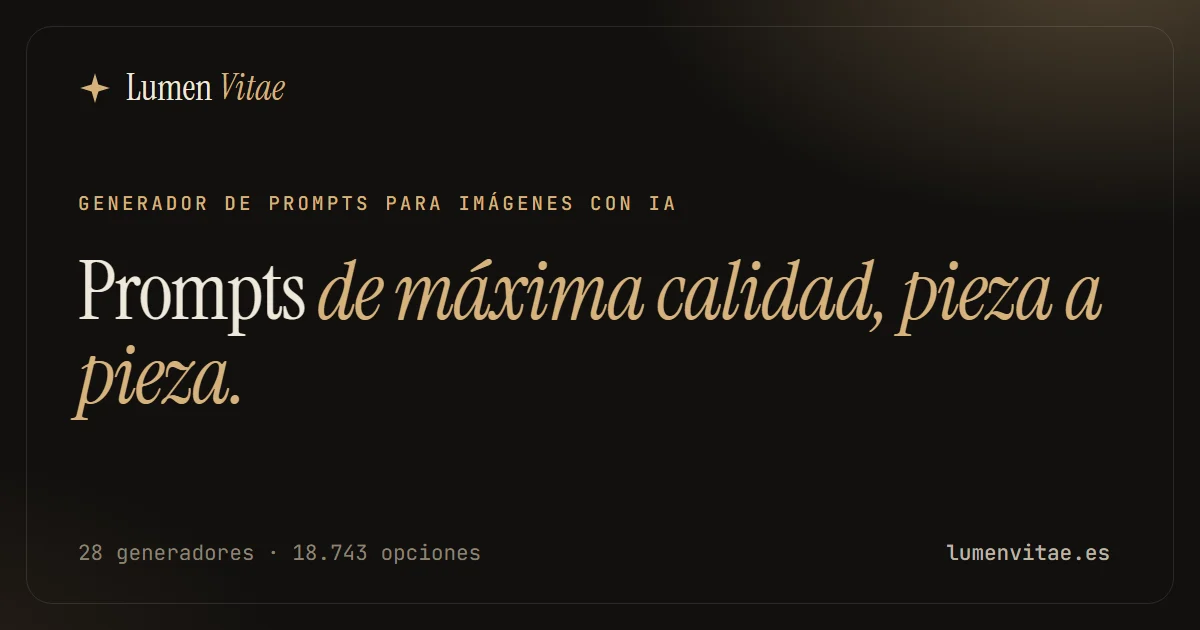
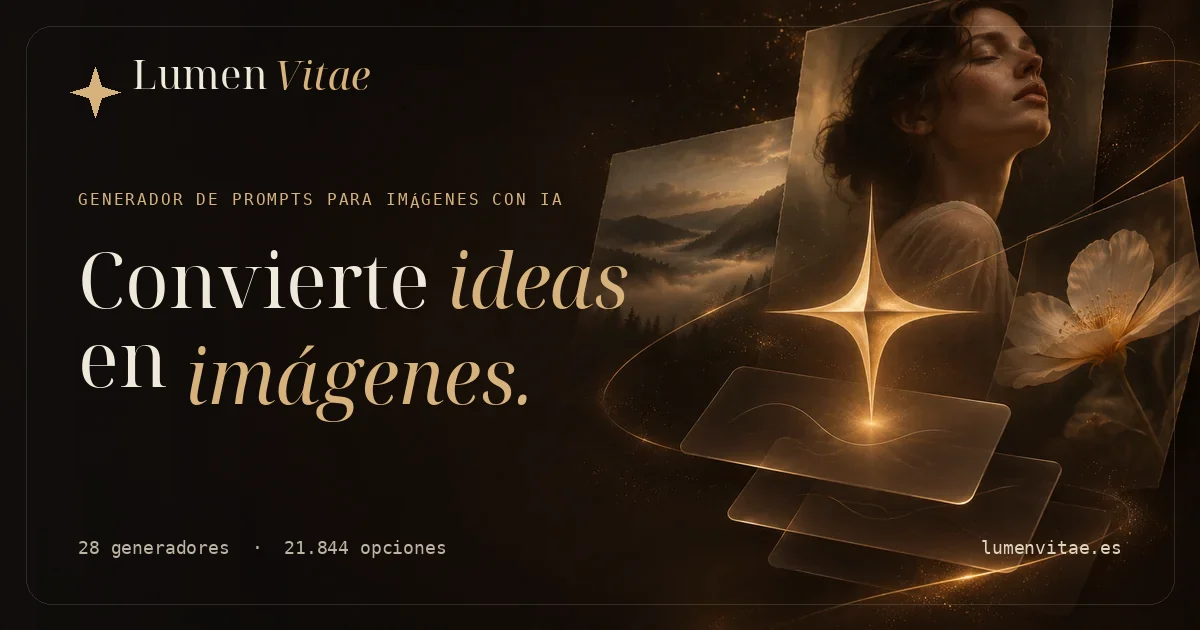
Añade nueva imagen Open Graph y bloquea zoom móvil

diff --git a/index.html b/index.html
@@ -2,7 +2,7 @@
 <html lang="es">
 <head>
 <meta charset="utf-8">
-<meta name="viewport" content="width=device-width, initial-scale=1">
+<meta name="viewport" content="width=device-width, initial-scale=1, maximum-scale=1, user-scalable=no">
 <title>Lumen Vitae · Generador de prompts para imágenes con IA</title>
 <meta name="description" content="Construye prompts de máxima calidad para imágenes con IA: 28 generadores, más de 21.000 opciones y un constructor que cruza personajes, escenarios, clima y fotografía. Interfaz en español, prompts en inglés.">
 <meta name="application-name" content="Lumen Vitae">
@@ -19,12 +19,13 @@
 <meta property="og:title" content="Lumen Vitae · Generador de prompts para imágenes con IA">
 <meta property="og:description" content="Construye prompts de máxima calidad para imágenes con IA: 28 generadores, más de 21.000 opciones y un constructor que cruza personajes, escenarios, clima y fotografía. Interfaz en español, prompts en inglés.">
 <meta property="og:url" content="https://lumenvitae.es/">
-<meta property="og:image" content="https://lumenvitae.es/assets/img/og/home.webp">
+<meta property="og:image" content="https://lumenvitae.es/assets/img/og/home.jpg">
+<meta property="og:image:type" content="image/jpeg">
 <meta property="og:image:width" content="1200">
 <meta property="og:image:height" content="630">
 <meta property="og:image:alt" content="Lumen Vitae · Generador de prompts para imágenes con IA">
 <meta name="twitter:card" content="summary_large_image">
-<meta name="twitter:image" content="https://lumenvitae.es/assets/img/og/home.webp">
+<meta name="twitter:image" content="https://lumenvitae.es/assets/img/og/home.jpg">
 <link rel="icon" href="/favicon.ico" sizes="any">
 <link rel="icon" type="image/svg+xml" href="/assets/img/icon.svg">
 <link rel="icon" type="image/png" sizes="32x32" href="/assets/img/icon-32.png">

diff --git a/guias/prompts-para-chatgpt-stable-diffusion-flux-ideogram-midjourney/index.html b/guias/prompts-para-chatgpt-stable-diffusion-flux-ideogram-midjourney/index.html
@@ -2,7 +2,7 @@
 <html lang="es">
 <head>
 <meta charset="utf-8">
-<meta name="viewport" content="width=device-width, initial-scale=1">
+<meta name="viewport" content="width=device-width, initial-scale=1, maximum-scale=1, user-scalable=no">
 <title>Prompts para ChatGPT, Stable Diffusion, Flux, Ideogram y Midjourney: qué cambia | Lumen Vitae</title>
 <meta name="description" content="Diferencias prácticas entre escribir un prompt para ChatGPT o Gemini, Stable Diffusion o Flux, Ideogram y Midjourney, y qué formato de Lumen Vitae usar en cada caso.">
 <meta name="application-name" content="Lumen Vitae">
@@ -20,6 +20,7 @@
 <meta property="og:description" content="Diferencias prácticas entre escribir un prompt para ChatGPT o Gemini, Stable Diffusion o Flux, Ideogram y Midjourney, y qué formato de Lumen Vitae usar en cada caso.">
 <meta property="og:url" content="https://lumenvitae.es/guias/prompts-para-chatgpt-stable-diffusion-flux-ideogram-midjourney/">
 <meta property="og:image" content="https://lumenvitae.es/assets/img/og/guia-prompts-para-chatgpt-stable-diffusion-flux-ideogram-midjourney.webp">
+<meta property="og:image:type" content="image/webp">
 <meta property="og:image:width" content="1200">
 <meta property="og:image:height" content="630">
 <meta property="og:image:alt" content="Prompts para ChatGPT, Stable Diffusion, Flux, Ideogram y Midjourney: qué cambia | Lumen Vitae">

diff --git a/generadores/personaje-avanzado/index.html b/generadores/personaje-avanzado/index.html
@@ -2,7 +2,7 @@
 <html lang="es">
 <head>
 <meta charset="utf-8">
-<meta name="viewport" content="width=device-width, initial-scale=1">
+<meta name="viewport" content="width=device-width, initial-scale=1, maximum-scale=1, user-scalable=no">
 <title>Personaje avanzado · épocas y culturas · Generador de prompts para imágenes con IA | Lumen Vitae</title>
 <meta name="description" content="Generador avanzado de personajes femeninos adultos: 13 épocas, 6 culturas, identidad, cuerpo, rostro, pelo, maquillaje, vestuario con 68 colores y 22 tejidos, poses y escenarios.">
 <meta name="application-name" content="Lumen Vitae">
@@ -20,6 +20,7 @@
 <meta property="og:description" content="Generador avanzado de personajes femeninos adultos: 13 épocas, 6 culturas, identidad, cuerpo, rostro, pelo, maquillaje, vestuario con 68 colores y 22 tejidos, poses y escenarios.">
 <meta property="og:url" content="https://lumenvitae.es/generadores/personaje-avanzado/">
 <meta property="og:image" content="https://lumenvitae.es/assets/img/og/personaje-avanzado.webp">
+<meta property="og:image:type" content="image/webp">
 <meta property="og:image:width" content="1200">
 <meta property="og:image:height" content="630">
 <meta property="og:image:alt" content="Personaje avanzado · épocas y culturas · Generador de prompts para imágenes con IA | Lumen Vitae">

diff --git a/generadores/coches/index.html b/generadores/coches/index.html
@@ -2,7 +2,7 @@
 <html lang="es">
 <head>
 <meta charset="utf-8">
-<meta name="viewport" content="width=device-width, initial-scale=1">
+<meta name="viewport" content="width=device-width, initial-scale=1, maximum-scale=1, user-scalable=no">
 <title>Coches míticos y actuales · Generador de prompts para imágenes con IA | Lumen Vitae</title>
 <meta name="description" content="Elige entre 1.000 coches reales (500 míticos de la historia y 500 actuales) y colócalos en una de 183 escenas fotográficas o de ilustración, con la versión y el color que quieras.">
 <meta name="application-name" content="Lumen Vitae">
@@ -20,6 +20,7 @@
 <meta property="og:description" content="Elige entre 1.000 coches reales (500 míticos de la historia y 500 actuales) y colócalos en una de 183 escenas fotográficas o de ilustración, con la versión y el color que quieras.">
 <meta property="og:url" content="https://lumenvitae.es/generadores/coches/">
 <meta property="og:image" content="https://lumenvitae.es/assets/img/og/coches.webp">
+<meta property="og:image:type" content="image/webp">
 <meta property="og:image:width" content="1200">
 <meta property="og:image:height" content="630">
 <meta property="og:image:alt" content="Coches míticos y actuales · Generador de prompts para imágenes con IA | Lumen Vitae">

diff --git a/guias/proporciones-para-fondos-de-pantalla/index.html b/guias/proporciones-para-fondos-de-pantalla/index.html
@@ -2,7 +2,7 @@
 <html lang="es">
 <head>
 <meta charset="utf-8">
-<meta name="viewport" content="width=device-width, initial-scale=1">
+<meta name="viewport" content="width=device-width, initial-scale=1, maximum-scale=1, user-scalable=no">
 <title>Proporciones para fondos de pantalla: móvil, escritorio y ultraancho | Lumen Vitae</title>
 <meta name="description" content="Qué proporción elegir para un wallpaper de móvil, tablet, escritorio o monitor ultraancho, y cómo componer la imagen para que nada tape el motivo.">
 <meta name="application-name" content="Lumen Vitae">
@@ -20,6 +20,7 @@
 <meta property="og:description" content="Qué proporción elegir para un wallpaper de móvil, tablet, escritorio o monitor ultraancho, y cómo componer la imagen para que nada tape el motivo.">
 <meta property="og:url" content="https://lumenvitae.es/guias/proporciones-para-fondos-de-pantalla/">
 <meta property="og:image" content="https://lumenvitae.es/assets/img/og/guia-proporciones-para-fondos-de-pantalla.webp">
+<meta property="og:image:type" content="image/webp">
 <meta property="og:image:width" content="1200">
 <meta property="og:image:height" content="630">
 <meta property="og:image:alt" content="Proporciones para fondos de pantalla: móvil, escritorio y ultraancho | Lumen Vitae">

diff --git a/generadores/cosas-extranas/index.html b/generadores/cosas-extranas/index.html
@@ -2,7 +2,7 @@
 <html lang="es">
 <head>
 <meta charset="utf-8">
-<meta name="viewport" content="width=device-width, initial-scale=1">
+<meta name="viewport" content="width=device-width, initial-scale=1, maximum-scale=1, user-scalable=no">
 <title>Cosas Extrañas · Generador de prompts para imágenes con IA | Lumen Vitae</title>
 <meta name="description" content="Generador de prompts para criaturas y objetos surrealistas con IA: mezcla cabezas, colas, alas, materiales y rasgos imposibles para crear engendros únicos. Muchísimas opciones.">
 <meta name="application-name" content="Lumen Vitae">
@@ -20,6 +20,7 @@
 <meta property="og:description" content="Generador de prompts para criaturas y objetos surrealistas con IA: mezcla cabezas, colas, alas, materiales y rasgos imposibles para crear engendros únicos. Muchísimas opciones.">
 <meta property="og:url" content="https://lumenvitae.es/generadores/cosas-extranas/">
 <meta property="og:image" content="https://lumenvitae.es/assets/img/og/cosas-extranas.webp">
+<meta property="og:image:type" content="image/webp">
 <meta property="og:image:width" content="1200">
 <meta property="og:image:height" content="630">
 <meta property="og:image:alt" content="Cosas Extrañas · Generador de prompts para imágenes con IA | Lumen Vitae">

diff --git a/guias/cruzar-generadores-en-un-solo-prompt/index.html b/guias/cruzar-generadores-en-un-solo-prompt/index.html
@@ -2,7 +2,7 @@
 <html lang="es">
 <head>
 <meta charset="utf-8">
-<meta name="viewport" content="width=device-width, initial-scale=1">
+<meta name="viewport" content="width=device-width, initial-scale=1, maximum-scale=1, user-scalable=no">
 <title>Cruzar generadores: personajes, escenarios y clima en un solo prompt | Lumen Vitae</title>
 <meta name="description" content="Cómo combinar un personaje, un escenario, el clima y la fotografía en un único prompt con el constructor de Lumen Vitae, y qué hace cada ranura.">
 <meta name="application-name" content="Lumen Vitae">
@@ -20,6 +20,7 @@
 <meta property="og:description" content="Cómo combinar un personaje, un escenario, el clima y la fotografía en un único prompt con el constructor de Lumen Vitae, y qué hace cada ranura.">
 <meta property="og:url" content="https://lumenvitae.es/guias/cruzar-generadores-en-un-solo-prompt/">
 <meta property="og:image" content="https://lumenvitae.es/assets/img/og/guia-cruzar-generadores-en-un-solo-prompt.webp">
+<meta property="og:image:type" content="image/webp">
 <meta property="og:image:width" content="1200">
 <meta property="og:image:height" content="630">
 <meta property="og:image:alt" content="Cruzar generadores: personajes, escenarios y clima en un solo prompt | Lumen Vitae">

diff --git a/generadores/escenarios/index.html b/generadores/escenarios/index.html
@@ -2,7 +2,7 @@
 <html lang="es">
 <head>
 <meta charset="utf-8">
-<meta name="viewport" content="width=device-width, initial-scale=1">
+<meta name="viewport" content="width=device-width, initial-scale=1, maximum-scale=1, user-scalable=no">
 <title>Escenarios y mundos · Generador de prompts para imágenes con IA | Lumen Vitae</title>
 <meta name="description" content="Más de 100 escenas escritas a mano y 45 motivos combinables con 20 ambientes, 10 detalles, 10 estilos y 5 paletas: cientos de miles de fondos y wallpapers distintos.">
 <meta name="application-name" content="Lumen Vitae">
@@ -20,6 +20,7 @@
 <meta property="og:description" content="Más de 100 escenas escritas a mano y 45 motivos combinables con 20 ambientes, 10 detalles, 10 estilos y 5 paletas: cientos de miles de fondos y wallpapers distintos.">
 <meta property="og:url" content="https://lumenvitae.es/generadores/escenarios/">
 <meta property="og:image" content="https://lumenvitae.es/assets/img/og/escenarios.webp">
+<meta property="og:image:type" content="image/webp">
 <meta property="og:image:width" content="1200">
 <meta property="og:image:height" content="630">
 <meta property="og:image:alt" content="Escenarios y mundos · Generador de prompts para imágenes con IA | Lumen Vitae">

diff --git a/guias/como-escribir-un-prompt-de-calidad/index.html b/guias/como-escribir-un-prompt-de-calidad/index.html
@@ -2,7 +2,7 @@
 <html lang="es">
 <head>
 <meta charset="utf-8">
-<meta name="viewport" content="width=device-width, initial-scale=1">
+<meta name="viewport" content="width=device-width, initial-scale=1, maximum-scale=1, user-scalable=no">
 <title>Cómo escribir un prompt de calidad para imágenes con IA | Lumen Vitae</title>
 <meta name="description" content="Guía práctica para describir imágenes con IA: qué incluir, en qué orden, cómo evitar contradicciones y cómo iterar sin perder lo que funciona.">
 <meta name="application-name" content="Lumen Vitae">
@@ -20,6 +20,7 @@
 <meta property="og:description" content="Guía práctica para describir imágenes con IA: qué incluir, en qué orden, cómo evitar contradicciones y cómo iterar sin perder lo que funciona.">
 <meta property="og:url" content="https://lumenvitae.es/guias/como-escribir-un-prompt-de-calidad/">
 <meta property="og:image" content="https://lumenvitae.es/assets/img/og/guia-como-escribir-un-prompt-de-calidad.webp">
+<meta property="og:image:type" content="image/webp">
 <meta property="og:image:width" content="1200">
 <meta property="og:image:height" content="630">
 <meta property="og:image:alt" content="Cómo escribir un prompt de calidad para imágenes con IA | Lumen Vitae">

diff --git a/generadores/personajes-animados/index.html b/generadores/personajes-animados/index.html
@@ -2,7 +2,7 @@
 <html lang="es">
 <head>
 <meta charset="utf-8">
-<meta name="viewport" content="width=device-width, initial-scale=1">
+<meta name="viewport" content="width=device-width, initial-scale=1, maximum-scale=1, user-scalable=no">
 <title>Personajes animados · Generador de prompts para imágenes con IA | Lumen Vitae</title>
 <meta name="description" content="Generador de prompts para personajes femeninos de Disney y dibujos animados con IA. Elige el personaje y varía escenario, pose, vestuario y estilo.">
 <meta name="application-name" content="Lumen Vitae">
@@ -20,6 +20,7 @@
 <meta property="og:description" content="Generador de prompts para personajes femeninos de Disney y dibujos animados con IA. Elige el personaje y varía escenario, pose, vestuario y estilo.">
 <meta property="og:url" content="https://lumenvitae.es/generadores/personajes-animados/">
 <meta property="og:image" content="https://lumenvitae.es/assets/img/og/personajes-animados.webp">
+<meta property="og:image:type" content="image/webp">
 <meta property="og:image:width" content="1200">
 <meta property="og:image:height" content="630">
 <meta property="og:image:alt" content="Personajes animados · Generador de prompts para imágenes con IA | Lumen Vitae">

diff --git a/generadores/animales/index.html b/generadores/animales/index.html
@@ -2,7 +2,7 @@
 <html lang="es">
 <head>
 <meta charset="utf-8">
-<meta name="viewport" content="width=device-width, initial-scale=1">
+<meta name="viewport" content="width=device-width, initial-scale=1, maximum-scale=1, user-scalable=no">
 <title>Animales · Generador de prompts para imágenes con IA | Lumen Vitae</title>
 <meta name="description" content="Generador de prompts de animales con IA: elige especie (o escribe la tuya), edad, proporciones cuki o diabolicas, personalidad y estilo fotografico. Muchisimas opciones.">
 <meta name="application-name" content="Lumen Vitae">
@@ -20,6 +20,7 @@
 <meta property="og:description" content="Generador de prompts de animales con IA: elige especie (o escribe la tuya), edad, proporciones cuki o diabolicas, personalidad y estilo fotografico. Muchisimas opciones.">
 <meta property="og:url" content="https://lumenvitae.es/generadores/animales/">
 <meta property="og:image" content="https://lumenvitae.es/assets/img/og/animales.webp">
+<meta property="og:image:type" content="image/webp">
 <meta property="og:image:width" content="1200">
 <meta property="og:image:height" content="630">
 <meta property="og:image:alt" content="Animales · Generador de prompts para imágenes con IA | Lumen Vitae">

diff --git a/generadores/mujer/index.html b/generadores/mujer/index.html
@@ -2,7 +2,7 @@
 <html lang="es">
 <head>
 <meta charset="utf-8">
-<meta name="viewport" content="width=device-width, initial-scale=1">
+<meta name="viewport" content="width=device-width, initial-scale=1, maximum-scale=1, user-scalable=no">
 <title>Personajes femeninos · Generador de prompts para imágenes con IA | Lumen Vitae</title>
 <meta name="description" content="Genera prompts detallados para crear personajes femeninos con IA. Controla rasgos, vestuario, expresión y pose. Compatible con Midjourney, DALL·E y más.">
 <meta name="application-name" content="Lumen Vitae">
@@ -20,6 +20,7 @@
 <meta property="og:description" content="Genera prompts detallados para crear personajes femeninos con IA. Controla rasgos, vestuario, expresión y pose. Compatible con Midjourney, DALL·E y más.">
 <meta property="og:url" content="https://lumenvitae.es/generadores/mujer/">
 <meta property="og:image" content="https://lumenvitae.es/assets/img/og/mujer.webp">
+<meta property="og:image:type" content="image/webp">
 <meta property="og:image:width" content="1200">
 <meta property="og:image:height" content="630">
 <meta property="og:image:alt" content="Personajes femeninos · Generador de prompts para imágenes con IA | Lumen Vitae">
